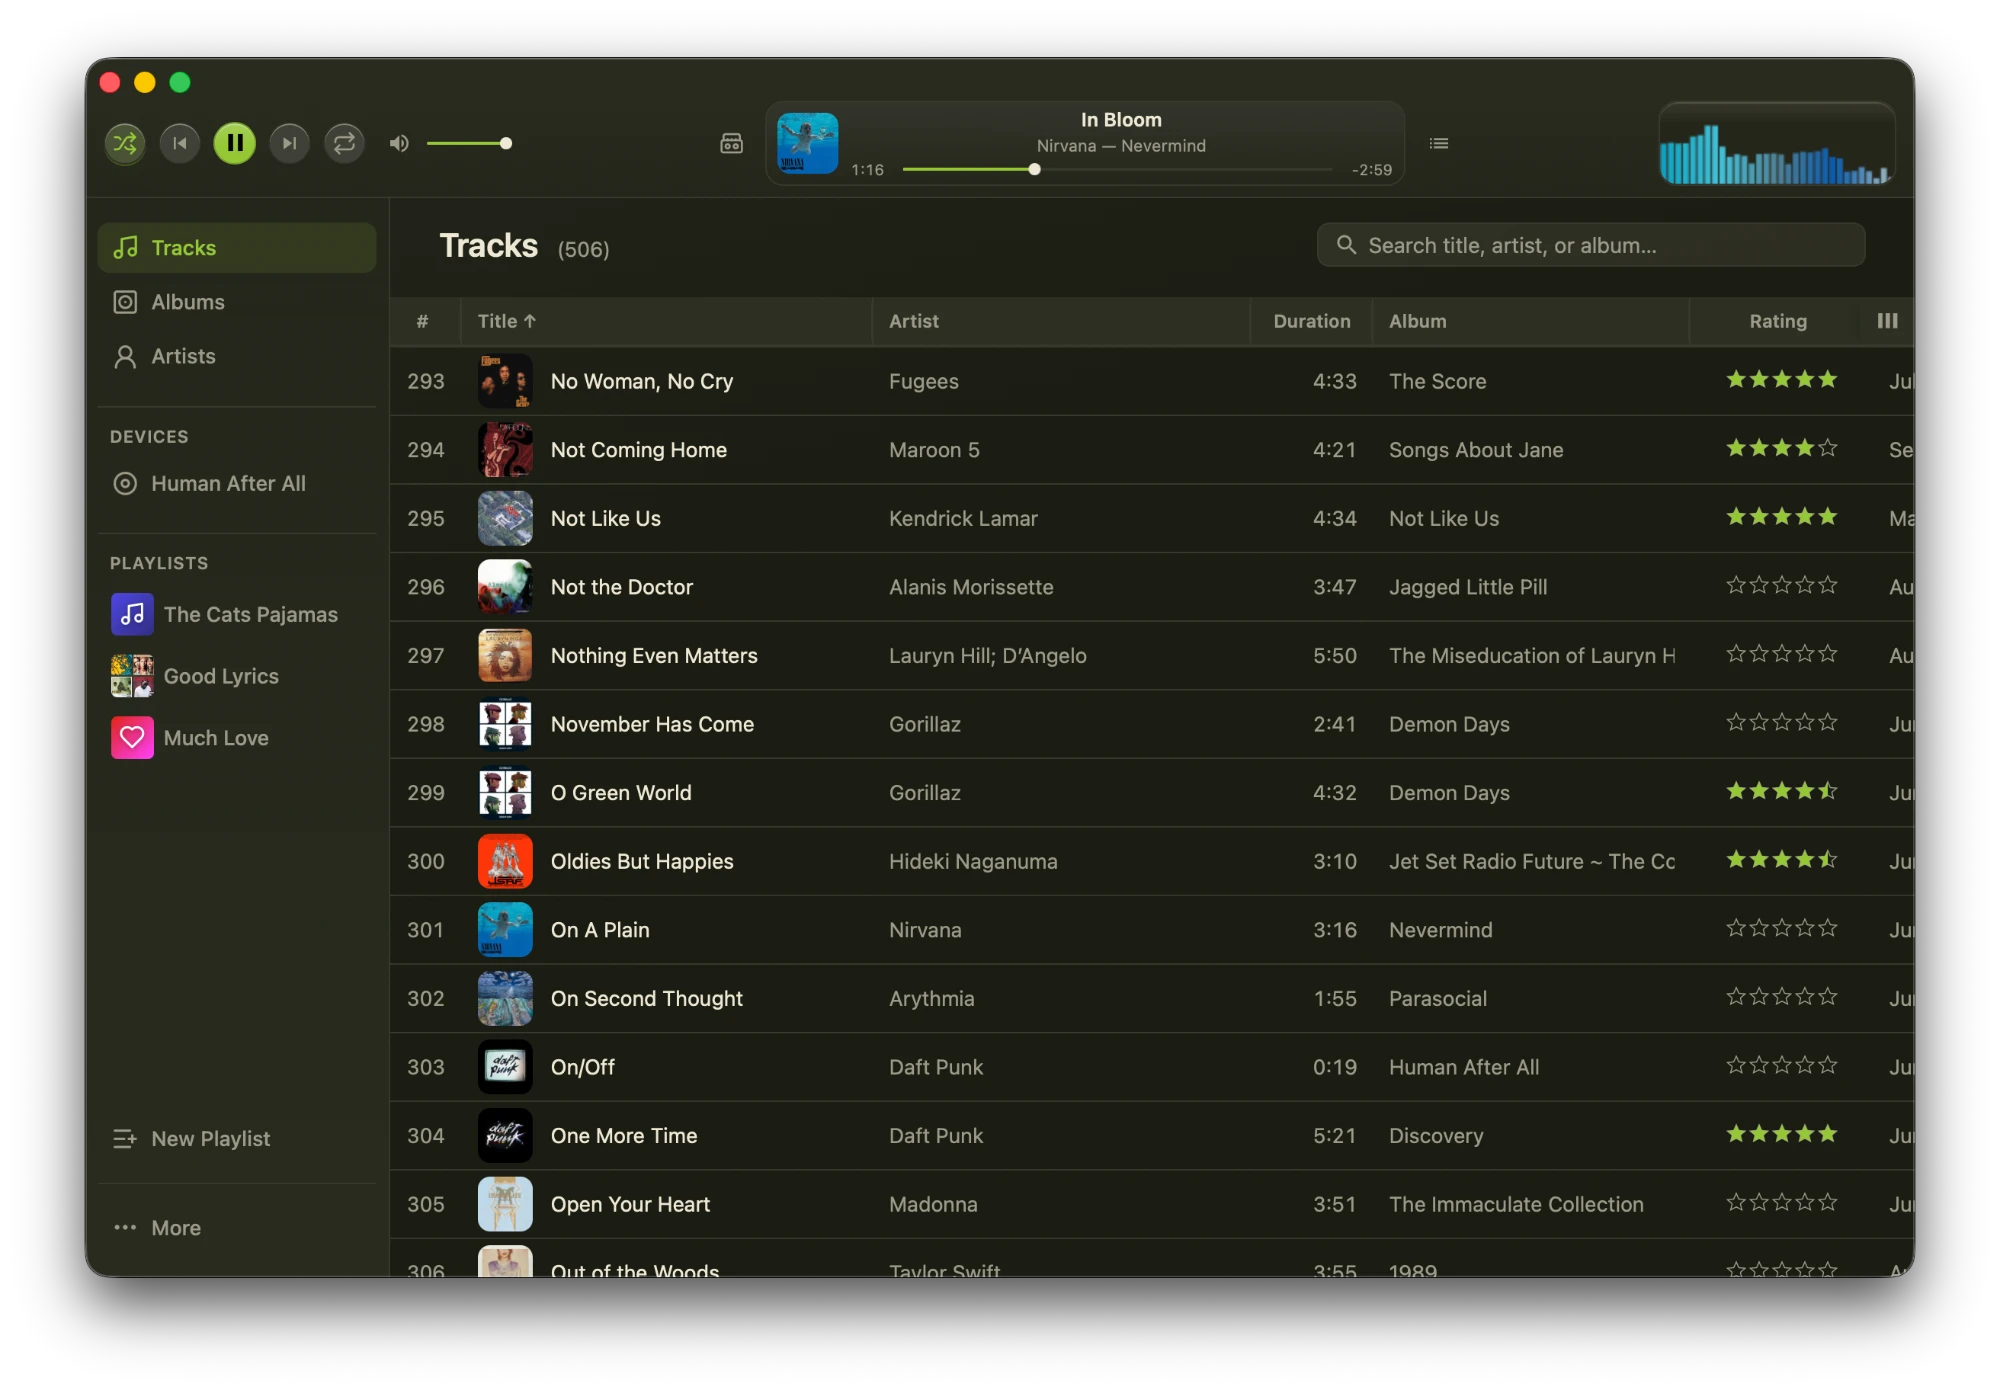
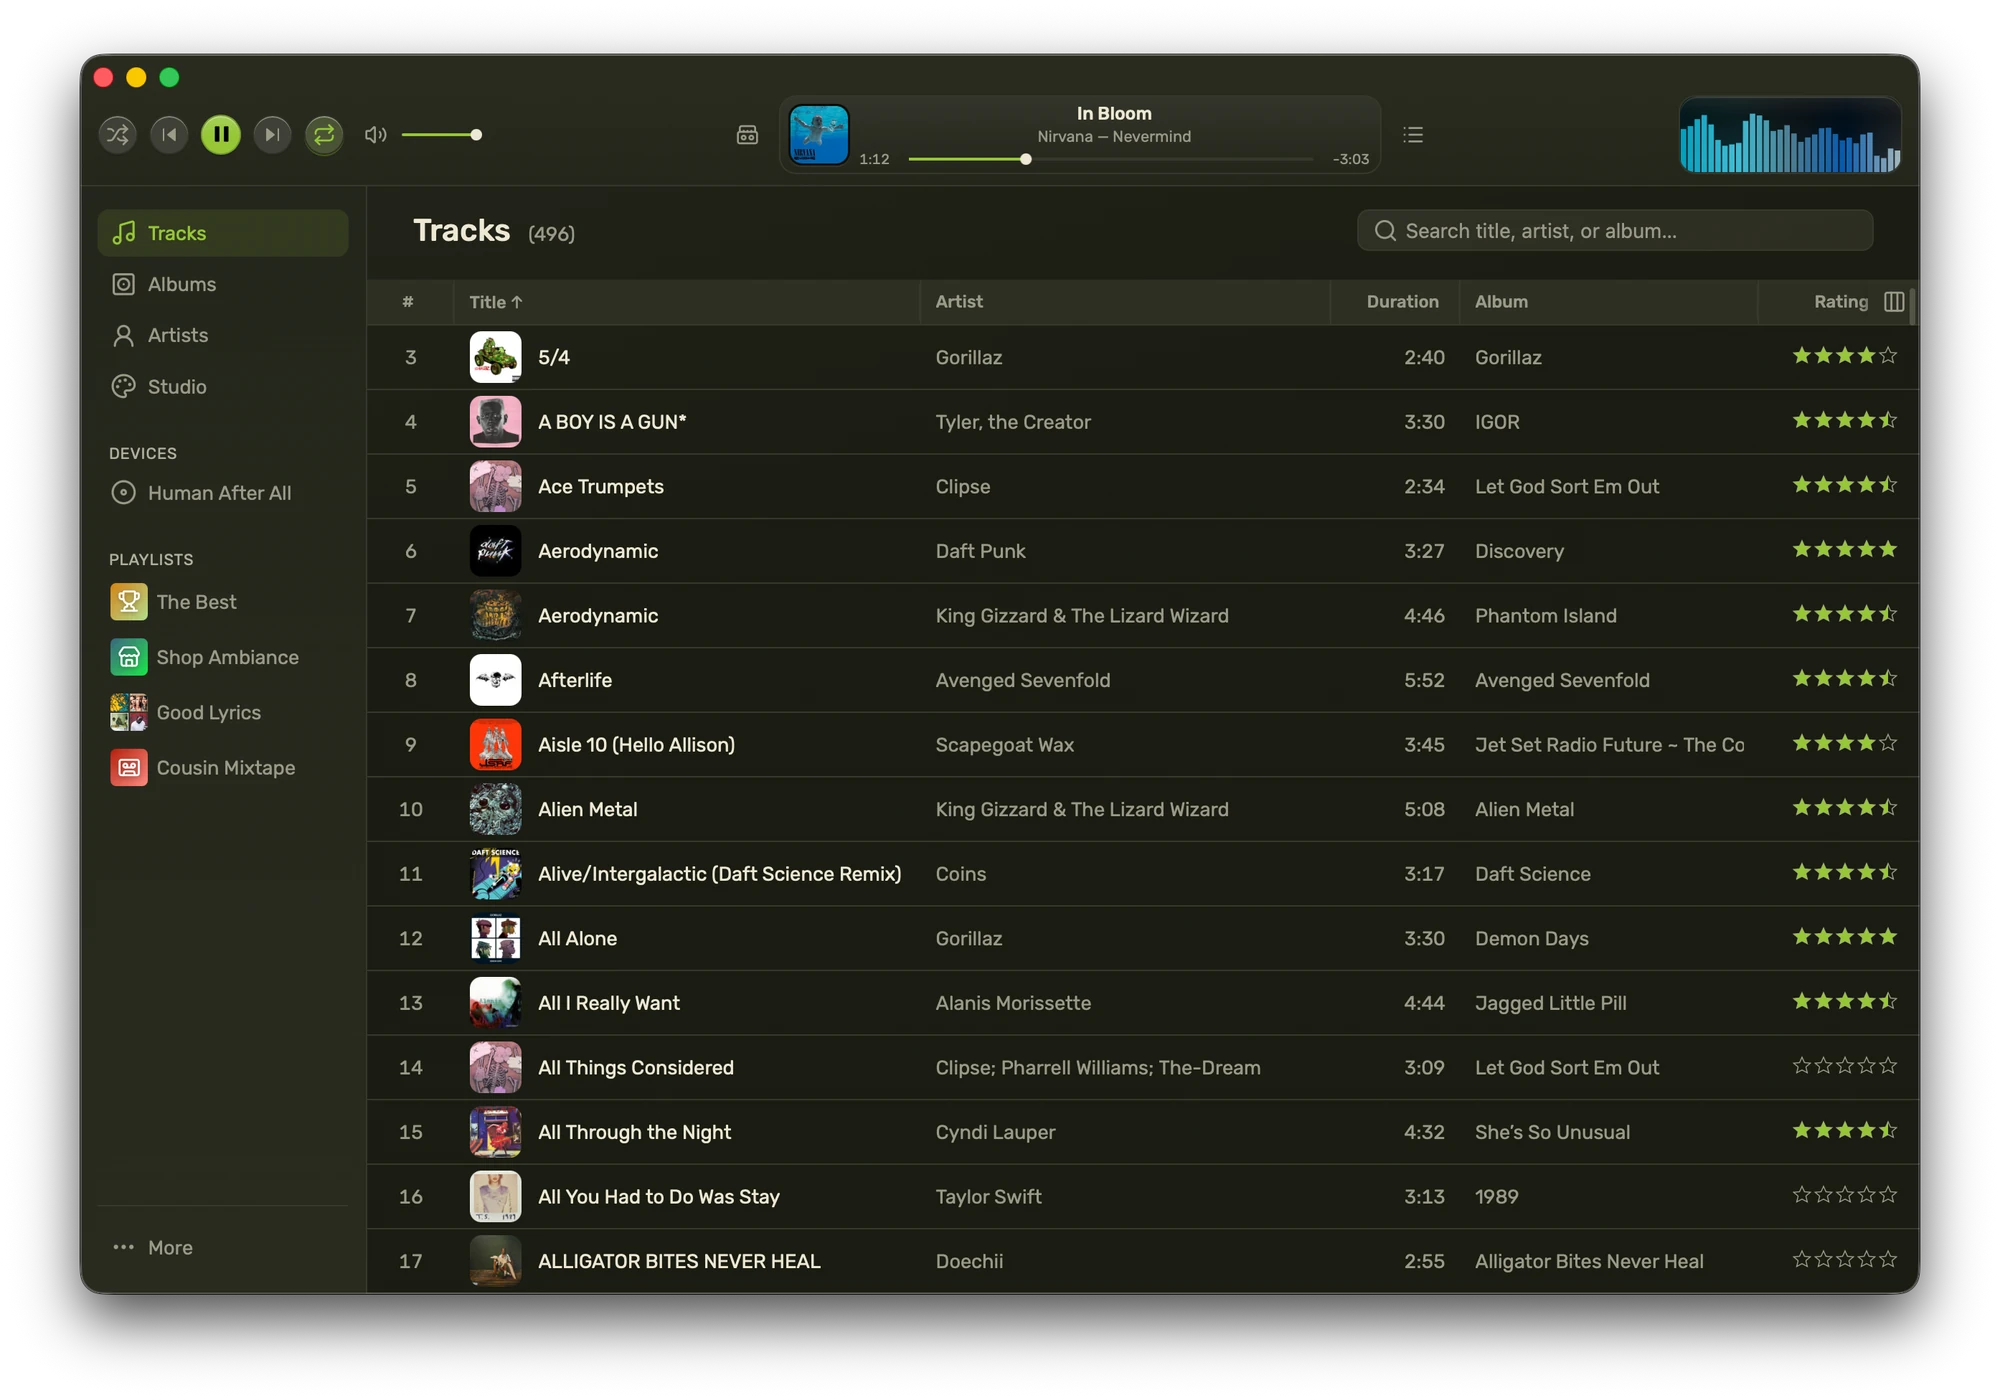
chore: prepare for the 1.0.0 release (#139)
Release-As: 1.0.0

diff --git a/libs/spk-format/README.md b/libs/spk-format/README.md
@@ -2,6 +2,8 @@
 
 Rust crate for the Spiral item format: the manifests of the four item types, their validators, and zip-slip-safe `.spk` archive extract and write.
 
+> **Status:** the item format and the Studio tooling built on it are not covered by Spiral 1.0's stability promise. The schemas are expected to stay close to what you see here, but they may still change in minor releases while early feedback comes in. Items that depend on a newer format declare it with `minAppVersion`.
+
 An **item** is one theme, skin, visualizer or sound pack. Its manifest sits at the item root and carries the item's identity and distribution fields, so there is no wrapper manifest:
 
 | Type | Manifest | Schema |
